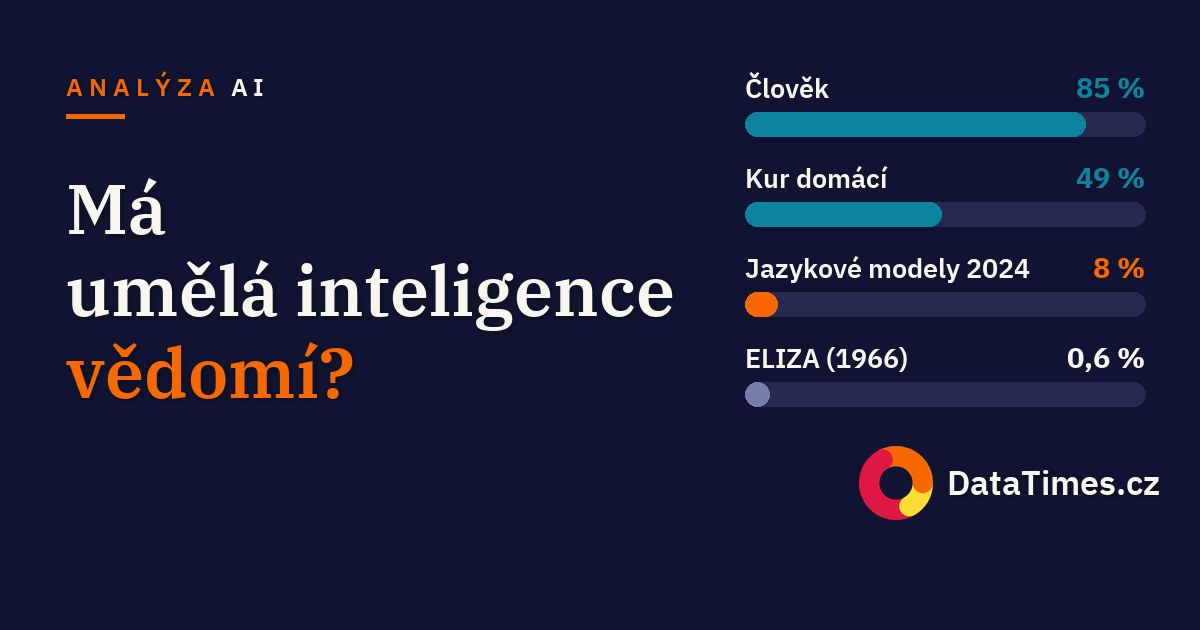
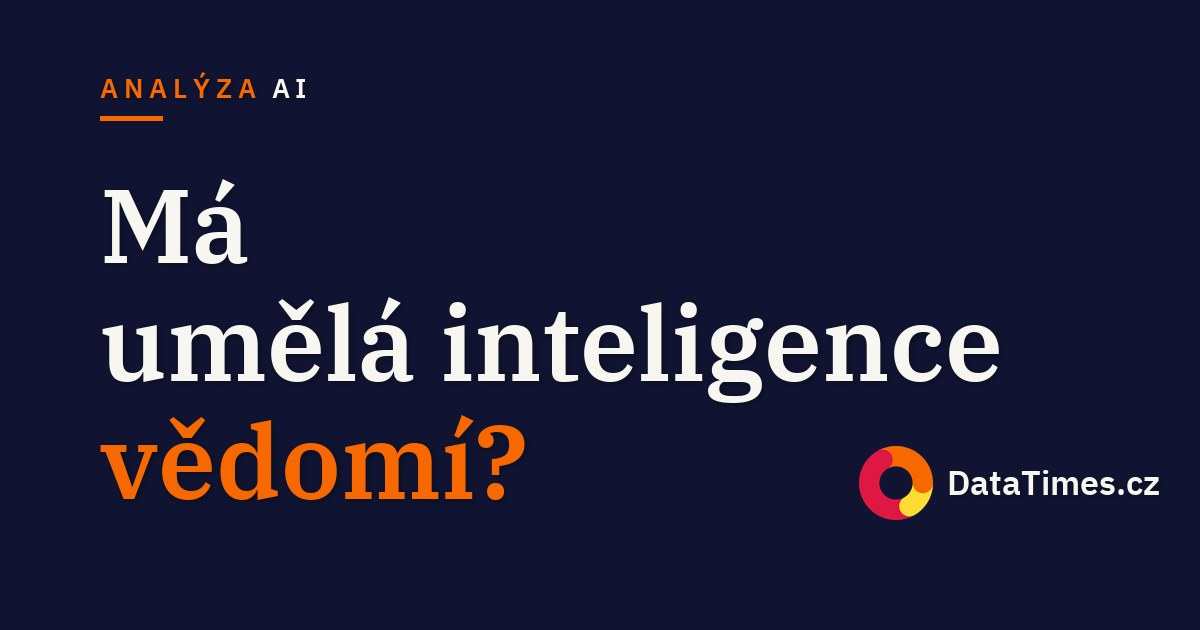
content(vědomí AI): vysvětlení, co procenta DCM znamenají; cover jen s otázkou

diff --git a/apps/web/app/clanek/_articles/analyza-2026-10-01-muze-mit-umela-inteligence-rozum/index.md b/apps/web/app/clanek/_articles/analyza-2026-10-01-muze-mit-umela-inteligence-rozum/index.md
@@ -32,10 +32,12 @@ Klíčové je, že model nepracuje s jednou teorií vědomí, ale se třinácti.
 
 ## Výsledek, který závisí na startovní čáře
 
-Model počítá tzv. bayesovsky: začne s nějakou výchozí pravděpodobností a podle důkazů ji posouvá nahoru nebo dolů. Autoři dali všem systémům stejnou startovní čáru – jednu šestinu, tedy 16,7 procenta. Sami přiznávají, že je zvolená účelově, protože na ní jsou dobře vidět rozdíly mezi systémy.
+Nejdřív je třeba říct, co výsledná procenta znamenají. Neříkají, *kolik* vědomí systém má. Říkají, jak moc si je model jistý, že daný systém vědomí vůbec má. Model vědomí nepozoruje přímo, jen ho odhaduje ze znaků, které s ním podle různých teorií souvisejí.
+
+Počítá přitom tzv. bayesovsky: začne s nějakou výchozí pravděpodobností a podle znaků ji posouvá nahoru nebo dolů. Autoři dali všem systémům stejnou startovní čáru – jednu šestinu, tedy 16,7 procenta – a sami přiznávají, že ji zvolili účelově, protože na ní jsou dobře vidět rozdíly mezi systémy. Proto ani člověk nevychází na 100 procentech, ale na 85. Model se ke stoprocentní jistotě z jedné šestiny nedopracuje a některé teorie navíc dávají člověku překvapivě nízké skóre. Autoři to sami berou jako doklad, že jejich nástroj má limity. Člověk tu slouží hlavně jako kontrola: když i u něj je model jistý jen na 85 procent, je vidět, jak hrubé to měřítko je.
 
 <KeyNumbers
-  label="Pravděpodobnost vědomí podle DCM (start 16,7 %)"
+  label="Jak jistý si je model, že systém má vědomí"
   labelColor="brandNavy[7]"
   numbers={[
     {
@@ -65,7 +67,7 @@ Model počítá tzv. bayesovsky: začne s nějakou výchozí pravděpodobností 
   ]}
 />
 
-Čísla pocházejí z [publikované studie](https://arxiv.org/abs/2601.17060v3). Jazykové modely z roku 2024 v ní vycházejí s 8 procenty, tedy pod startovní čárou: dostupné důkazy podle modelu svědčí spíš proti jejich vědomí. Autoři to formulují opatrně: důkazy jsou proti tomu, že by modely z roku 2024 byly vědomé, nejsou ale rozhodující.
+Čísla pocházejí z [publikované studie](https://arxiv.org/abs/2601.17060v3). Jazykové modely z roku 2024 v ní vycházejí s 8 procenty, tedy pod startovní čárou. Neznamená to, že by měly „trochu vědomí“. Znamená to, že znaky podle modelu svědčí spíš proti tomu, že by vědomí měly. Autoři to formulují opatrně: důkazy jsou proti tomu, že by modely z roku 2024 byly vědomé, nejsou ale rozhodující.
 
 <SupportBanner float="left" />Rozptyl mezi teoriemi je přitom obrovský. Podle teorie, která vědomí spojuje s biologií, mají jazykové modely 2 procenta. Podle teorie, která klade důraz na složitost zpracování informací, 57 procent. Průměr tedy schovává zásadní neshodu: nikdo neví, která teorie platí.
 
